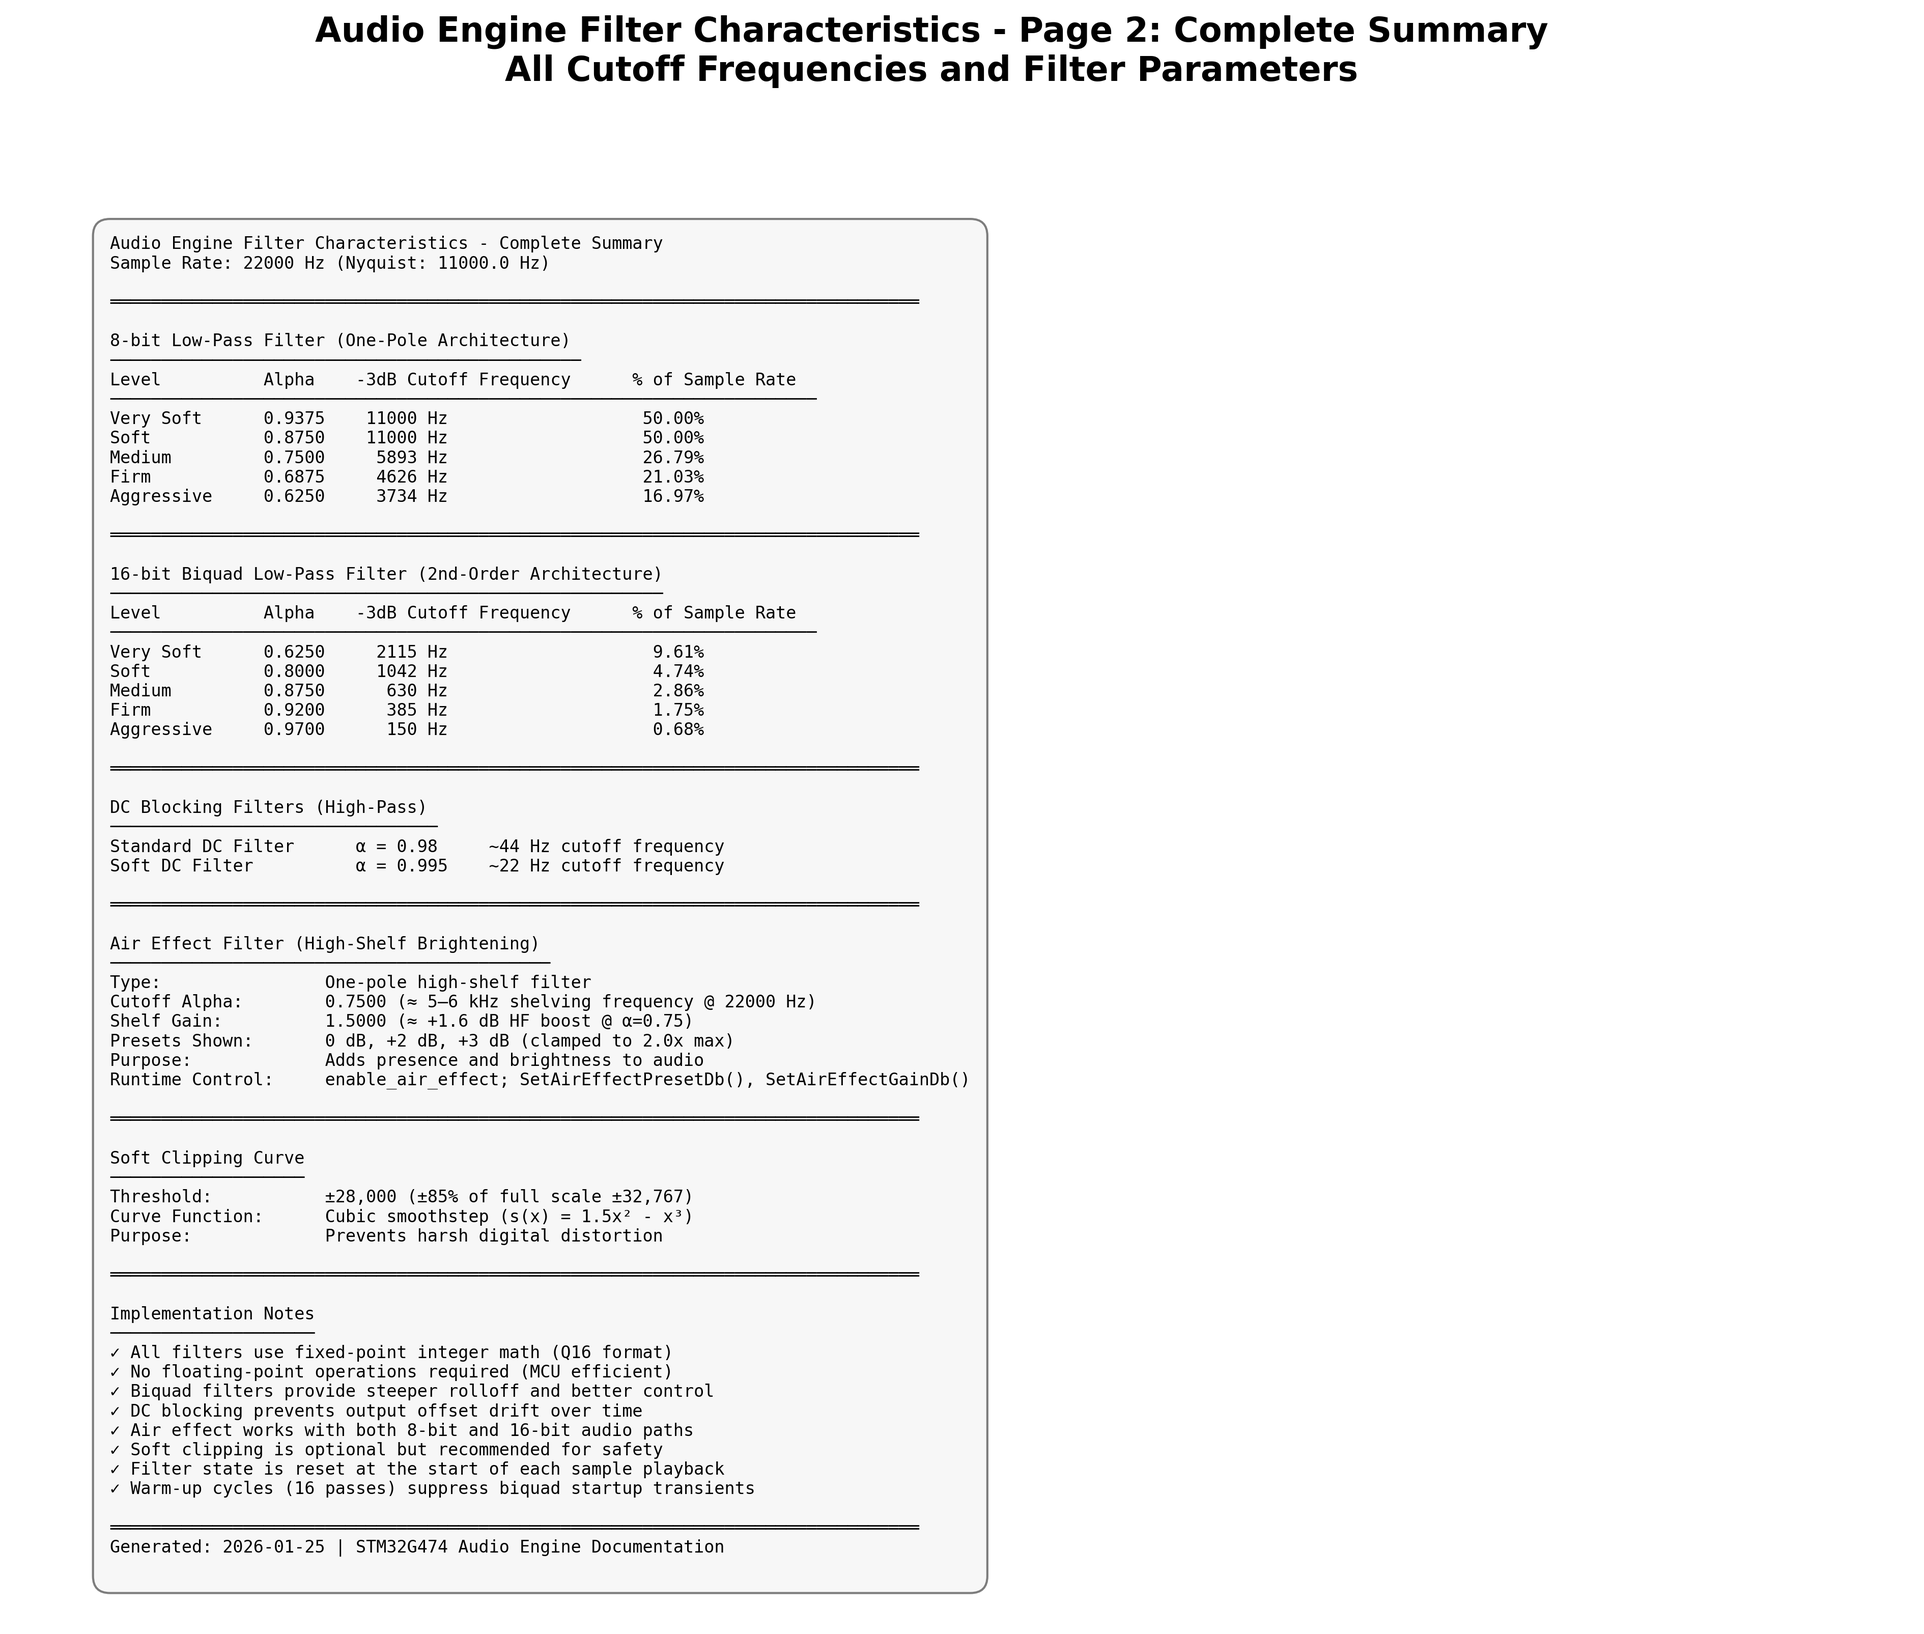
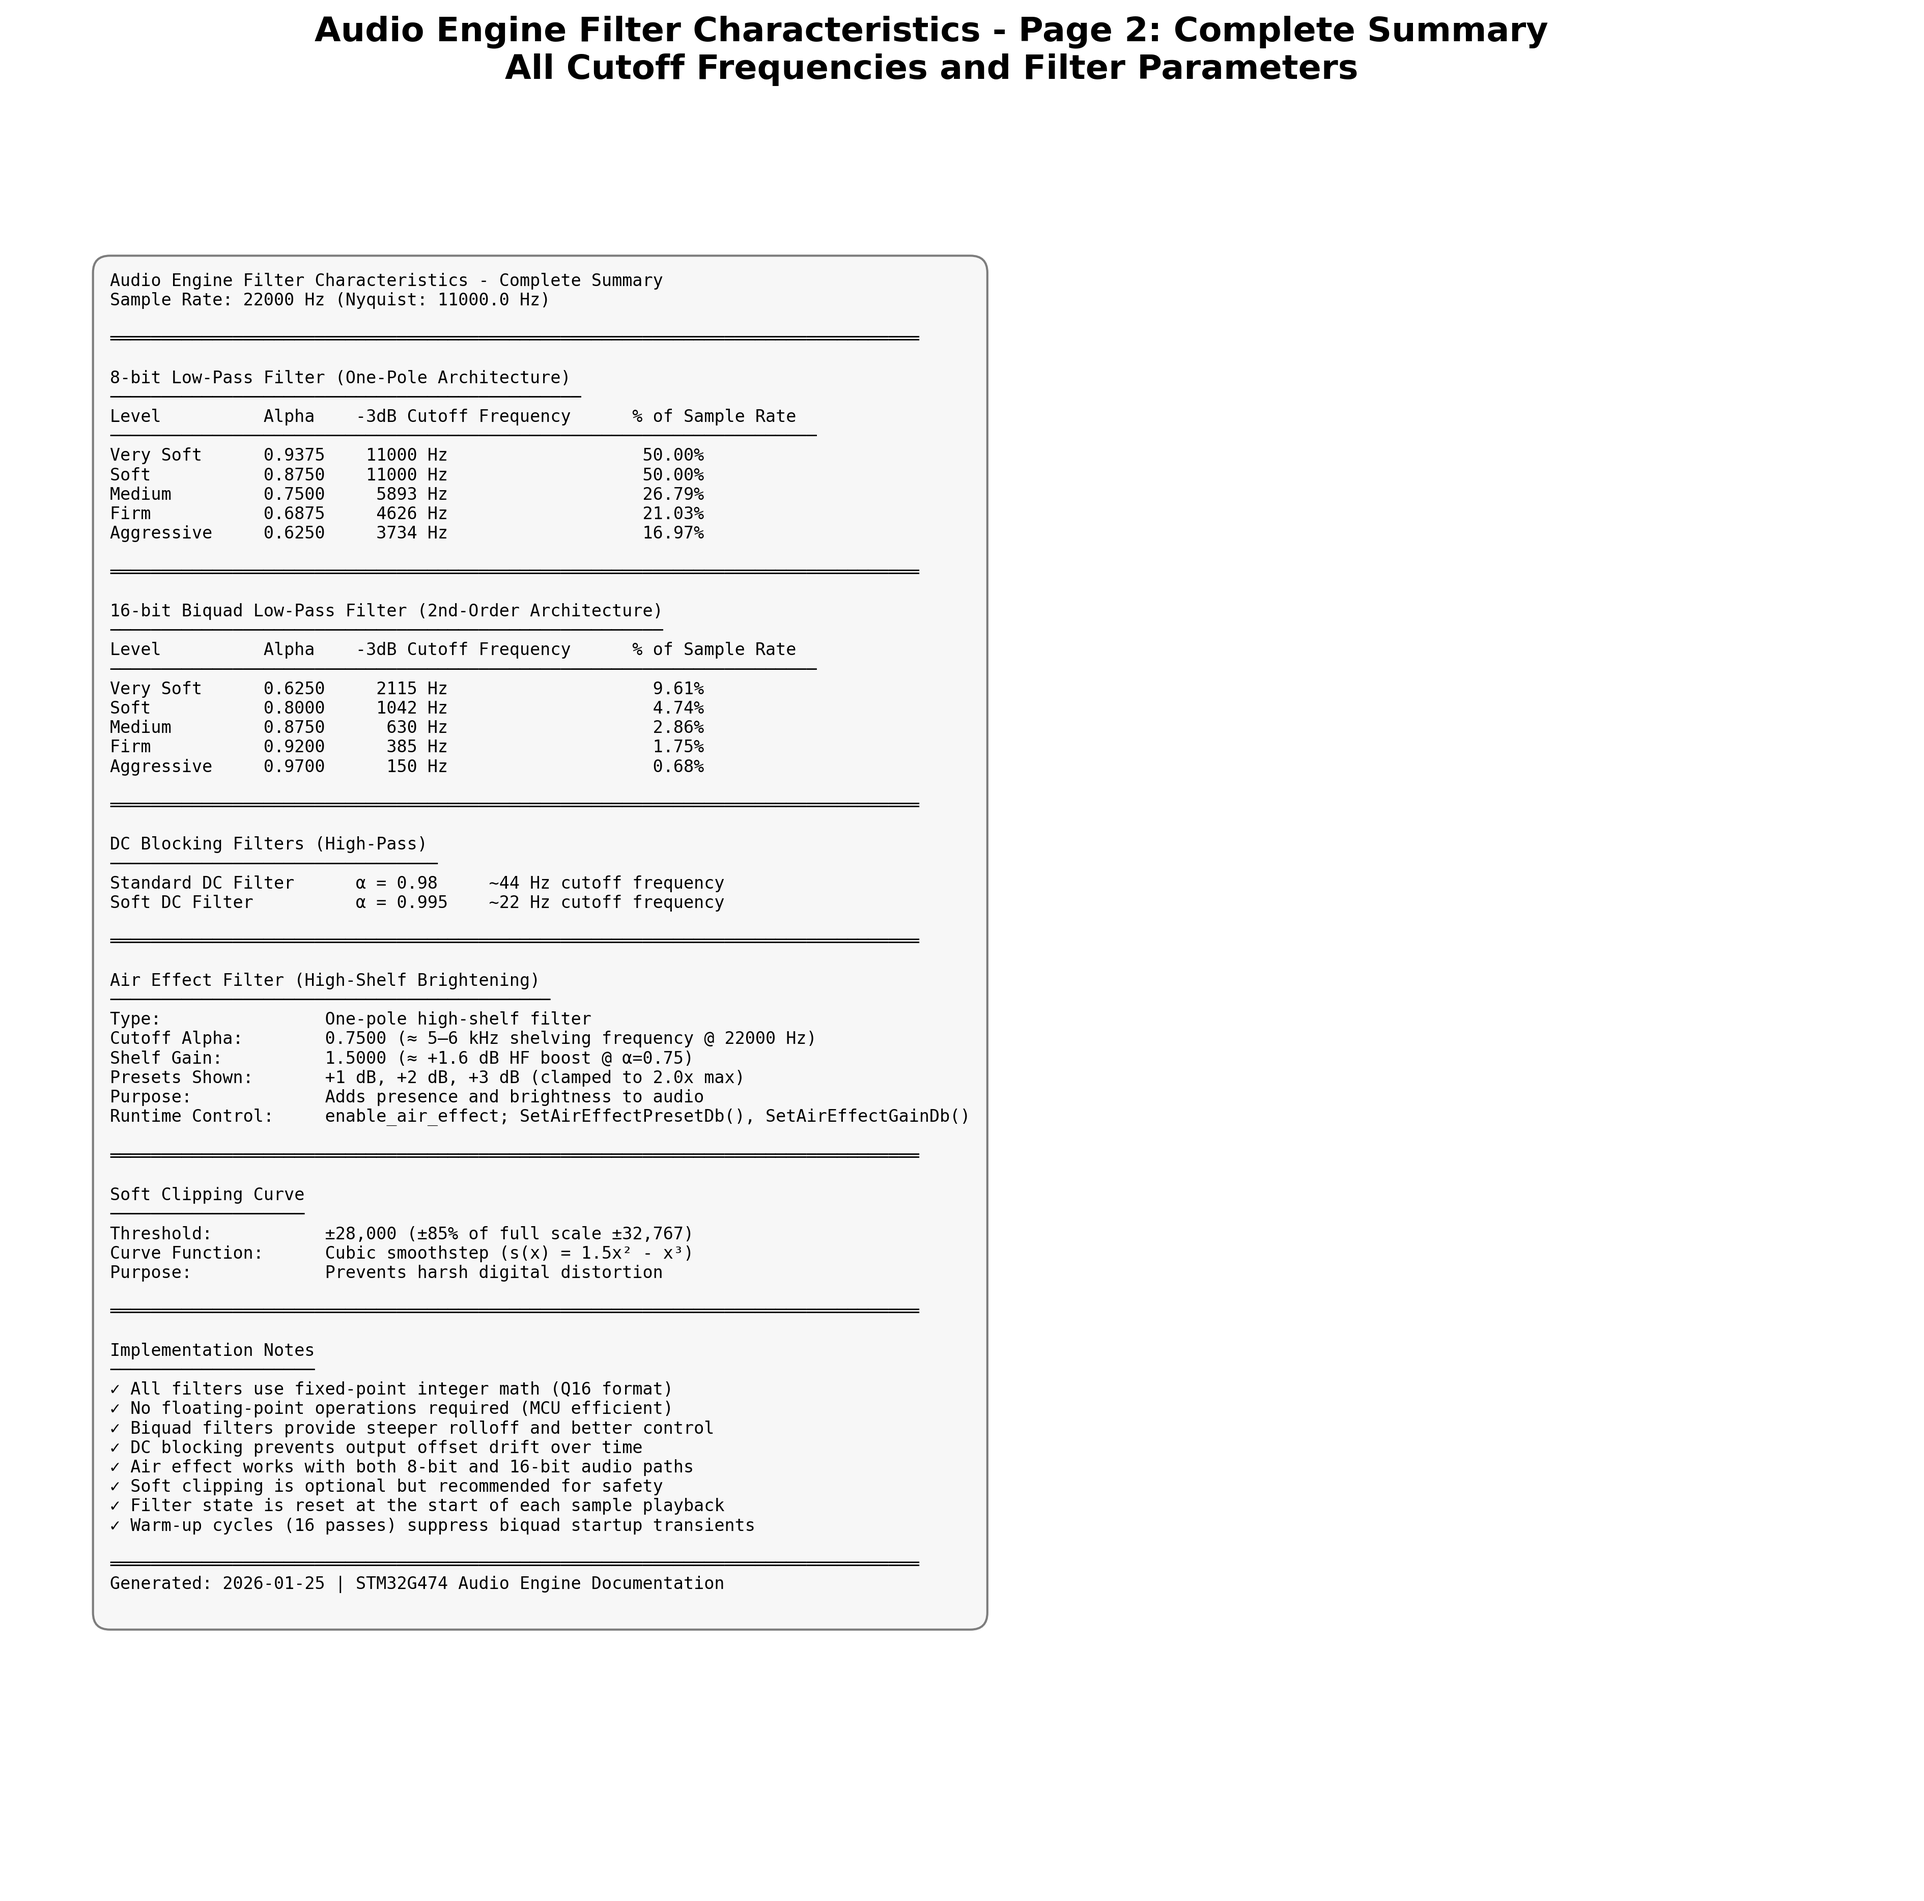
Improve visualization layout and Air Effect graph readability
Layout Improvements:
- Increased figure 1 height from 12 to 16 inches for better spacing
- Increased figure 2 height from 12 to 14 inches for summary page
- Increased vertical spacing (hspace) from 0.35 to 0.5 for figure 1
- Prevents text overlap and decompresses cramped subplots

Air Effect Graph:
- Moved legend to upper left (loc='upper left')
- Allows unobstructed view of high-frequency response characteristics
- Legend no longer covers the critical rising response region

Regenerated Assets:
- filter_characteristics_enhanced.png (improved spacing and layout)
- filter_characteristics_summary_page2.png (better readability)
- Filter_Report_Enhanced.pdf (updated with improved visualizations)

diff --git a/Application/CR2-VSCode/Docs/visualize_filters_enhanced.py b/Application/CR2-VSCode/Docs/visualize_filters_enhanced.py
@@ -196,8 +196,8 @@ def soft_clipping_transfer():
     return input_range, output
 
 # Create the figure with more subplots
-fig = plt.figure(figsize=(16, 12))
-gs = GridSpec(4, 2, figure=fig, hspace=0.35, wspace=0.3)
+fig = plt.figure(figsize=(16, 16))
+gs = GridSpec(4, 2, figure=fig, hspace=0.5, wspace=0.3)
 
 # Plot 1: DC Blocking Filters
 ax1 = fig.add_subplot(gs[0, 0])
@@ -325,8 +325,8 @@ ax7.axhline(3, color='k', linestyle='--', alpha=0.3, linewidth=1, label='+3 dB g
 ax7.grid(True, alpha=0.3, which='both')
 ax7.set_xlabel('Frequency (Hz)')
 ax7.set_ylabel('Magnitude (dB)')
-ax7.set_title('Air Effect Presets (0, +2, +3 dB)\nα=0.75, Shelf Gain max=2.0x')
-ax7.legend(fontsize=8)
+ax7.set_title('Air Effect Presets (+1, +2, +3 dB)\nα=0.75, Shelf Gain max=2.0x')
+ax7.legend(fontsize=8, loc='upper left')
 ax7.set_ylim([-10, 10])
 
 # Add overall title for page 1
@@ -340,7 +340,7 @@ print(f"Enhanced filter characteristics plot saved to: {output_file}")
 
 # ========== PAGE 2: SUMMARY TABLE ==========
 # Create a second figure for the summary/characteristics table
-fig2 = plt.figure(figsize=(16, 12))
+fig2 = plt.figure(figsize=(16, 14))
 ax_summary = fig2.add_subplot(111)
 ax_summary.axis('off')
 
@@ -404,7 +404,7 @@ Air Effect Filter (High-Shelf Brightening)
 Type:                One-pole high-shelf filter
 Cutoff Alpha:        {AIR_EFFECT_CUTOFF:.4f} (≈ 5–6 kHz shelving frequency @ {FS} Hz)
 Shelf Gain:          {AIR_EFFECT_SHELF_GAIN:.4f} (≈ +1.6 dB HF boost @ α=0.75)
-Presets Shown:       0 dB, +2 dB, +3 dB (clamped to 2.0x max)
+Presets Shown:       +1 dB, +2 dB, +3 dB (clamped to 2.0x max)
 Purpose:             Adds presence and brightness to audio
 Runtime Control:     enable_air_effect; SetAirEffectPresetDb(), SetAirEffectGainDb()
 

diff --git a/Application/CR2-VSCode/Docs/AUDIO_ENGINE_MANUAL.md b/Application/CR2-VSCode/Docs/AUDIO_ENGINE_MANUAL.md
@@ -789,8 +789,9 @@ Volume Scaling (always active)
 
 **Tuning the Effect:**
 
-- For more sparkle: use `SetAirEffectGainDb(2.0f)` or `SetAirEffectPresetDb(1)` (+2 dB).
-- For stronger presence: `SetAirEffectGainDb(3.0f)` or preset 2 (+3 dB).
+- For subtle brightening: use `SetAirEffectGainDb(1.0f)` or `SetAirEffectPresetDb(1)` (+1 dB).
+- For more sparkle: use `SetAirEffectGainDb(2.0f)` or `SetAirEffectPresetDb(2)` (+2 dB).
+- For stronger presence: `SetAirEffectGainDb(3.0f)` or preset 3 (+3 dB).
 - For a subtle lift: `SetAirEffectGainDb(0.0f)` (flat) or reduce gain below 0 dB if adding presence elsewhere.
 - For different sample rates (e.g., 48 kHz), raise `AIR_EFFECT_CUTOFF` (higher α) to keep the shelf in the upper band.
 
